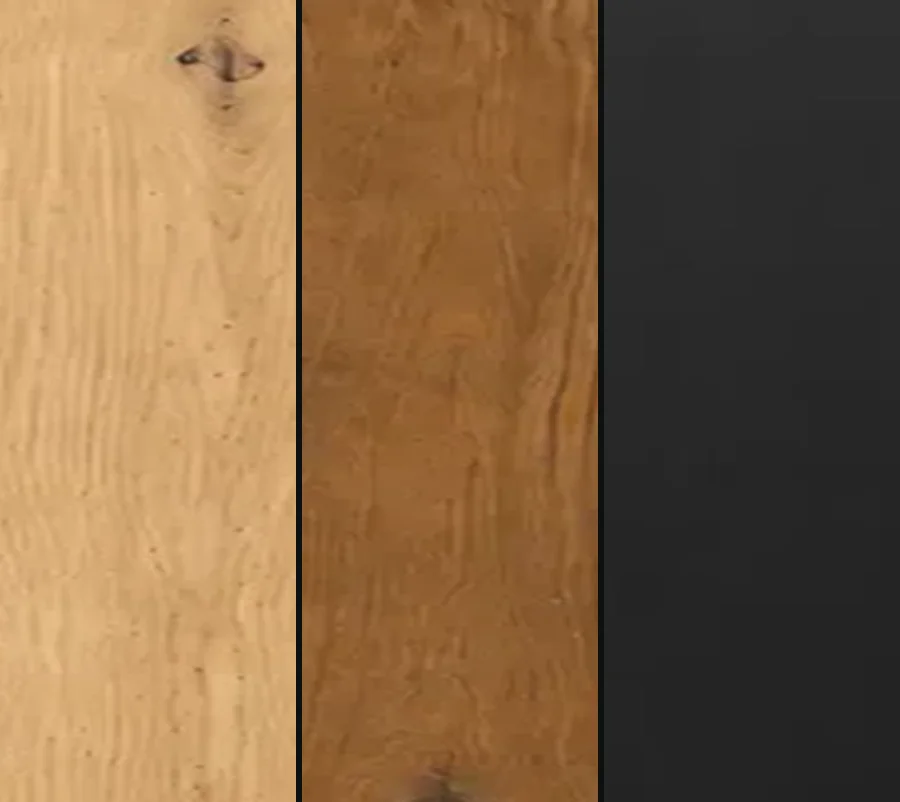
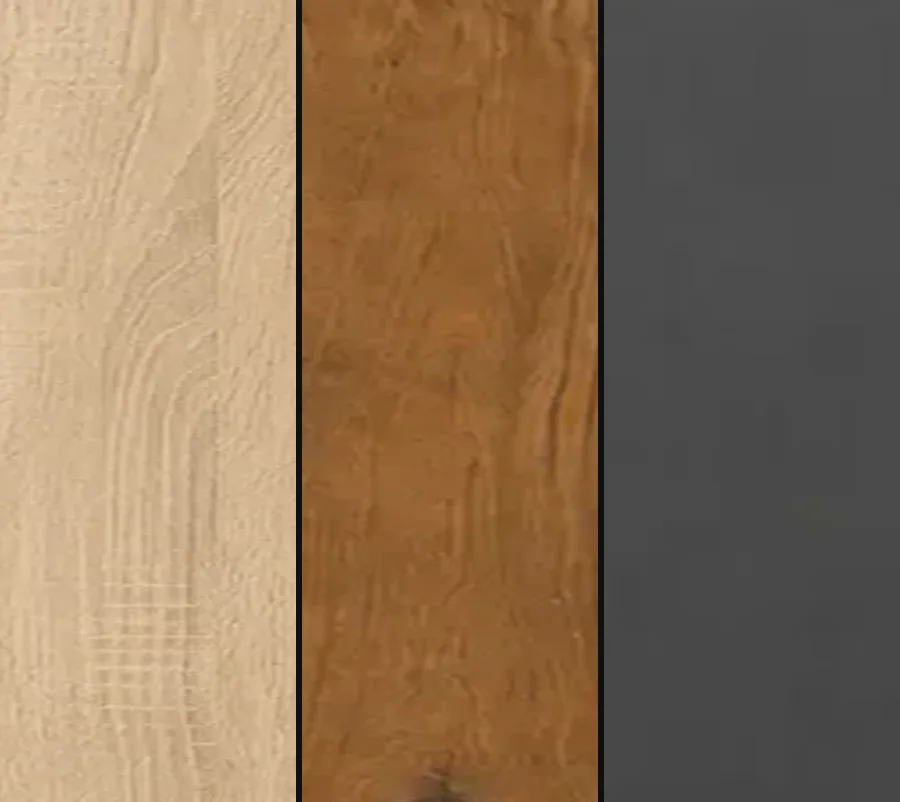
Dekory na karte: sonoma, hunton, antracit; kombinácie čelné pohľady

diff --git a/app/materialy/Obsah.tsx b/app/materialy/Obsah.tsx
@@ -20,8 +20,8 @@ const COMBOS = [
   { img: "/img/products/premium-120x40x80-black-matt-orech-04.webp", a: "Black Matt", b: "Orech" },
   { img: "/img/products/standard-120x40x80-artisan-antracit-01.webp", a: "Artisan", b: "Antracit" },
   { img: "/img/products/premium-200x50x70-artisan-cierna-01.webp", a: "Artisan", b: "Čierna matná" },
-  { img: "/img/products/premium-100x40x90-dub-hunton-black-matt-02.webp", a: "Dub Hunton", b: "Black Matt" },
-  { img: "/img/products/dub-spanielsky-black-matt-01.webp", a: "Dub španielsky", b: "Čierna matná" },
+  { img: "/img/products/premium-100x40x90-dub-hunton-black-matt-03.webp", a: "Dub Hunton", b: "Black Matt" },
+  { img: "/img/products/dub-spanielsky-black-matt-02.webp", a: "Dub španielsky", b: "Čierna matná" },
 ];
 
 const INTERIORS = [
